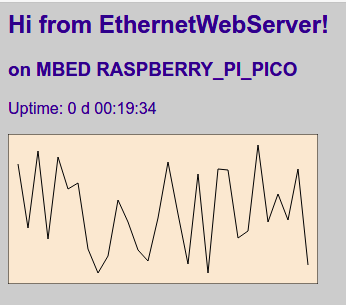
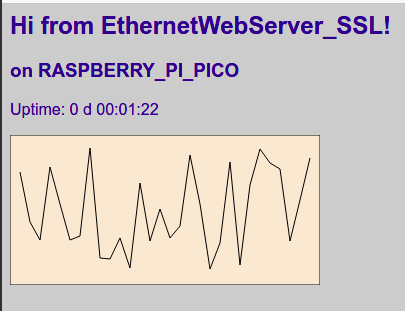
v1.5.0 to add support to RP2040-based boards
### Major Releases v1.5.0

1. Add support to RP2040-based boards, such as **RASPBERRY_PI_PICO, ADAFRUIT_FEATHER_RP2040 and GENERIC_RP2040**, using [**Earle Philhower's arduino-pico core** v1.3.1+](https://github.com/earlephilhower/arduino-pico).
2. Update examples with new features

Changed region(s): [[0.0, 0.0, 1.0, 1.0], [0.4046, 0.8262, 0.4335, 0.8557]]

diff --git a/README.md b/README.md
@@ -16,6 +16,7 @@
   * [Currently supported Boards](#currently-supported-boards)
   * [Currently supported Ethernet shields/modules](#currently-supported-ethernet-shieldsmodules)
 * [Changelog](#changelog)
+  * [Major Releases v1.5.0](#major-releases-v150)
   * [Major Releases v1.4.0](#major-releases-v140)
   * [Releases v1.3.1](#releases-v131)
   * [Releases v1.3.0](#releases-v130)
@@ -137,6 +138,8 @@
   * [7. MQTTS_ThingStream on MBED RASPBERRY_PI_PICO with W5x00 using Ethernet Library](#7-mqtts_thingstream-on-mbed-raspberry_pi_pico-with-w5x00-using-ethernet-library)
   * [8. MQTTClient_SSL on MBED RASPBERRY_PI_PICO with W5x00 using Ethernet Library](#8-mqttclient_ssl-on-mbed-raspberry_pi_pico-with-w5x00-using-ethernet-library)
   * [9. AdvancedWebServer on MBED RASPBERRY_PI_PICO with W5x00 using Ethernet3 Library](#9-advancedwebserver-on-mbed-raspberry_pi_pico-with-w5x00-using-ethernet3-library)
+  * [10. MQTTClient_SSL on RASPBERRY_PI_PICO with W5x00 using Ethernet Library](#10-mqttclient_ssl-on-raspberry_pi_pico-with-w5x00-using-ethernet-library)
+  * [11. AdvancedWebServer on RASPBERRY_PI_PICO with W5x00 using Ethernet Library](#11-advancedwebserver-on-raspberry_pi_pico-with-w5x00-using-ethernet-library)
 * [Debug](#debug)
 * [Troubleshooting](#troubleshooting)
 * [Releases](#releases)
@@ -157,7 +160,7 @@
 
 This [EthernetWebServer_SSL library](https://github.com/khoih-prog/EthernetWebServer_SSL) is a simple yet complete TLS/SSL WebClient and non-TLS/SSL WebServer library for **Teensy, SAM DUE, Arduino SAMD21, Adafruit SAMD21/SAMD51, Adafruit nRF52, ESP32/ESP8266, STM32, etc.** boards using Ethernet shields. The functions are similar and compatible to those of [`ESP32 WebServer`](https://github.com/espressif/arduino-esp32/tree/master/libraries/WebServer) and [`ESP8266WebServer`](https://github.com/esp8266/Arduino/tree/master/libraries/ESP8266WebServer) libraries to make life much easier to port sketches from ESP8266/ESP32.
 
-The **RP2040-based boards, such as RASPBERRY_PI_PICO**, are currently supported using [**Arduino-mbed RP2040** core](https://github.com/arduino/ArduinoCore-mbed). The support to [Earle Philhower's arduino-pico core](https://github.com/earlephilhower/arduino-pico) will be added in the future.
+The **RP2040-based boards, such as RASPBERRY_PI_PICO**, are currently supported using [**Arduino-mbed RP2040** core](https://github.com/arduino/ArduinoCore-mbed) or [**Earle Philhower's arduino-pico** core v1.3.1+](https://github.com/earlephilhower/arduino-pico).
 
 This [EthernetWebServer_SSL library](https://github.com/khoih-prog/EthernetWebServer_SSL) adds [TLS 1.2](https://www.websecurity.digicert.com/security-topics/what-is-ssl-tls-https) functionality to EthernetClient, using BearSSL as an underlying TLS engine.
 
@@ -201,7 +204,7 @@ This [**EthernetWebServer_SSL** library](https://github.com/khoih-prog/EthernetW
  6. **AVR Mega1280, 2560, ADK.**. SSL WebClient not supported yet. Check [Trivial sketch won't compile using Arduino 1.8.13](https://github.com/mike-matera/ArduinoSTL/issues/56)
  7. ESP32
  8. ESP8266. SSL WebClient not supported yet. Check [HTTPS GET request - ESP8266 - ENC28j60](https://github.com/OPEnSLab-OSU/SSLClient/issues/5)
- 9. RP2040-based boards, such as **RASPBERRY_PI_PICO, ADAFRUIT_FEATHER_RP2040 and GENERIC_RP2040**, using [**Arduino-mbed RP2040** core](https://github.com/arduino/ArduinoCore-mbed). 
+ 9. RP2040-based boards, such as **RASPBERRY_PI_PICO, ADAFRUIT_FEATHER_RP2040 and GENERIC_RP2040**, using [**Arduino-mbed RP2040** core](https://github.com/arduino/ArduinoCore-mbed) or [**Earle Philhower's arduino-pico** core v1.3.1+](https://github.com/earlephilhower/arduino-pico).
  
   
 #### Currently supported Ethernet shields/modules
@@ -214,6 +217,11 @@ This [**EthernetWebServer_SSL** library](https://github.com/khoih-prog/EthernetW
 ---
 
 # Changelog
+
+### Major Releases v1.5.0
+
+1. Add support to RP2040-based boards, such as **RASPBERRY_PI_PICO, ADAFRUIT_FEATHER_RP2040 and GENERIC_RP2040**, using [**Earle Philhower's arduino-pico core** v1.3.1+](https://github.com/earlephilhower/arduino-pico).
+2. Update examples with new features
 
 ### Major Releases v1.4.0
 
@@ -269,15 +277,16 @@ This [**EthernetWebServer_SSL** library](https://github.com/khoih-prog/EthernetW
  9. [`ESP8266 Core 2.7.4+`](https://github.com/esp8266/Arduino) for ESP8266-based boards. [![Latest release](https://img.shields.io/github/release/esp8266/Arduino.svg)](https://github.com/esp8266/Arduino/releases/latest/). To use ESP8266 core 2.7.1+ for LittleFS. 
 10. [`ESP32 Core 1.0.6+`](https://github.com/espressif/arduino-esp32) for ESP32-based boards. [![Latest release](https://img.shields.io/github/release/espressif/arduino-esp32.svg)](https://github.com/espressif/arduino-esp32/releases/latest/)
 11. [`Arduino mbed_rp2040 core 2.0.0+`](https://github.com/arduino/ArduinoCore-mbed) for Arduino (Use Arduino Board Manager) RP2040-based boards, such as RASPBERRY_PI_PICO. [![GitHub release](https://img.shields.io/github/release/arduino/ArduinoCore-mbed.svg)](https://github.com/arduino/ArduinoCore-mbed/releases/latest)
-12. [`Functional-VLPP library v1.0.2+`](https://github.com/khoih-prog/functional-vlpp) to use server's lambda function. To install. check [![arduino-library-badge](https://www.ardu-badge.com/badge/Functional-Vlpp.svg?)](https://www.ardu-badge.com/Functional-Vlpp)
-13. Depending on which Ethernet card you're using:
+12. [`Earle Philhower's arduino-pico core v1.3.1+`](https://github.com/earlephilhower/arduino-pico) for RP2040-based boards such as **RASPBERRY_PI_PICO, ADAFRUIT_FEATHER_RP2040 and GENERIC_RP2040**, etc. [![GitHub release](https://img.shields.io/github/release/earlephilhower/arduino-pico.svg)](https://github.com/earlephilhower/arduino-pico/releases/latest)
+13. [`Functional-VLPP library v1.0.2+`](https://github.com/khoih-prog/functional-vlpp) to use server's lambda function. To install. check [![arduino-library-badge](https://www.ardu-badge.com/badge/Functional-Vlpp.svg?)](https://www.ardu-badge.com/Functional-Vlpp)
+14. Depending on which Ethernet card you're using:
    - [`Ethernet library v2.0.0+`](https://github.com/arduino-libraries/Ethernet) for W5100, W5200 and W5500.  [![GitHub release](https://img.shields.io/github/release/arduino-libraries/Ethernet.svg)](https://github.com/arduino-libraries/Ethernet/releases/latest)
    - [`EthernetLarge library v2.0.0+`](https://github.com/OPEnSLab-OSU/EthernetLarge) for W5100, W5200 and W5500.
    - [`Ethernet2 library v1.0.4+`](https://github.com/khoih-prog/Ethernet2) for W5500. [![GitHub release](https://img.shields.io/github/release/adafruit/Ethernet2.svg)](https://github.com/adafruit/Ethernet2/releases/latest)
    - [`Ethernet3 library v1.5.5+`](https://github.com/sstaub/Ethernet3) for W5500/WIZ550io/WIZ850io/USR-ES1 with Wiznet W5500 chip. [![GitHub release](https://img.shields.io/github/release/sstaub/Ethernet3.svg)](https://github.com/sstaub/Ethernet3/releases/latest)
    - [`EthernetENC library v2.0.1+`](https://github.com/jandrassy/EthernetENC) for ENC28J60. [![GitHub release](https://img.shields.io/github/release/jandrassy/EthernetENC.svg)](https://github.com/jandrassy/EthernetENC/releases/latest). **New and Better**
    - [`UIPEthernet library v2.0.9+`](https://github.com/UIPEthernet/UIPEthernet) for ENC28J60. [![GitHub release](https://img.shields.io/github/release/UIPEthernet/UIPEthernet.svg)](https://github.com/UIPEthernet/UIPEthernet/releases/latest)
-   - [`NativeEthernet Library version stable111+`](https://github.com/vjmuzik/NativeEthernet) for Teensy 4.1 built-in NativeEthernet.
+   - [`NativeEthernet Library version stable111+`](https://github.com/vjmuzik/NativeEthernet) for Teensy 4.1 built-in NativeEthernet. **New**
 
 ---
 
@@ -469,9 +478,9 @@ theses files must be copied into the corresponding directory:
 
 #### 8. For RP2040-based boards using [Earle Philhower arduino-pico core](https://github.com/earlephilhower/arduino-pico)
  
- ***To be able to automatically detect and display BOARD_NAME on Seeeduino SAMD (RASPBERRY_PI_PICO, ADAFRUIT_FEATHER_RP2040, GENERIC_RP2040, etc) boards***, you have to copy the file [RP2040 platform.txt](Packages_Patches/rp2040/hardware/rp2040/1.2.1) into rp2040 directory (~/.arduino15/packages/rp2040/hardware/rp2040/1.2.1). 
+ ***To be able to automatically detect and display BOARD_NAME on Seeeduino SAMD (RASPBERRY_PI_PICO, ADAFRUIT_FEATHER_RP2040, GENERIC_RP2040, etc) boards***, you have to copy the file [RP2040 platform.txt](Packages_Patches/rp2040/hardware/rp2040/1.3.1) into rp2040 directory (~/.arduino15/packages/rp2040/hardware/rp2040/1.3.1). 
 
-Supposing the rp2040 core version is 1.2.1. This file must be copied into the directory:
+Supposing the rp2040 core version is 1.3.1. This file must be copied into the directory:
 
 - `~/.arduino15/packages/rp2040/hardware/rp2040/1.2.1/platform.txt`
 
@@ -2102,7 +2111,7 @@ The following are debug terminal output and screen shot when running example [Ad
 
 ```
 Starting AdvancedWebServer on NRF52840_FEATHER with ENC28J60 using EthernetENC Library
-EthernetWebServer_SSL v1.4.0
+EthernetWebServer_SSL v1.5.0
 [ETHERNET_WEBSERVER] =========================
 [ETHERNET_WEBSERVER] Default SPI pinout:
 [ETHERNET_WEBSERVER] MOSI: 25
@@ -2280,7 +2289,7 @@ The terminal output of **SAM DUE with W5x00 using EthernetLarge Library** runnin
 
 ```
 Start WebClientMulti_SSL on SAM DUE with W5x00 using EthernetLarge Library
-EthernetWebServer_SSL v1.4.0
+EthernetWebServer_SSL v1.5.0
 [ETHERNET_WEBSERVER] =========== USE_ETHERNET_LARGE ===========
 [ETHERNET_WEBSERVER] Default SPI pinout:
 [ETHERNET_WEBSERVER] MOSI: 75
@@ -2419,7 +2428,7 @@ The terminal output of **SEEED_XIAO_M0 with W5x00 using Ethernet3 Library** runn
 
 ```
 Start WebClient_SSL on SEEED_XIAO_M0 with W5x00 using Ethernet3 Library
-EthernetWebServer_SSL v1.4.0
+EthernetWebServer_SSL v1.5.0
 [ETHERNET_WEBSERVER] =========== USE_ETHERNET3 ===========
 [ETHERNET_WEBSERVER] Default SPI pinout:
 [ETHERNET_WEBSERVER] MOSI: 10
@@ -2525,7 +2534,7 @@ Received 3405 bytes in 0.2072 s, rate = 16.43 kbytes/second
 
 ```
 Start MQTTClient_SSL_Complex on SAM DUE with W5x00 using EthernetLarge Library
-EthernetWebServer_SSL v1.4.0
+EthernetWebServer_SSL v1.5.0
 [ETHERNET_WEBSERVER] =========== USE_ETHERNET_LARGE ===========
 [ETHERNET_WEBSERVER] Default SPI pinout:
 [ETHERNET_WEBSERVER] MOSI: 75
@@ -2566,7 +2575,7 @@ The terminal output of **SEEED_XIAO_M0 with W5x00 using Ethernet3 Library** runn
 
 ```
 Start MQTTS_ThingStream on SEEED_XIAO_M0 with W5x00 using Ethernet3 Library
-EthernetWebServer_SSL v1.4.0
+EthernetWebServer_SSL v1.5.0
 [ETHERNET_WEBSERVER] Board : SEEED_XIAO_M0 , setCsPin: 1
 [ETHERNET_WEBSERVER] Default SPI pinout:
 [ETHERNET_WEBSERVER] MOSI: 10
@@ -2600,7 +2609,7 @@ The terminal output of **MBED RASPBERRY_PI_PICO with W5x00 using Ethernet Librar
 
 ```
 Start MQTTS_ThingStream on MBED RASPBERRY_PI_PICO with W5x00 using Ethernet Library
-EthernetWebServer_SSL v1.4.0
+EthernetWebServer_SSL v1.5.0
 [ETHERNET_WEBSERVER] =========== USE_ETHERNET ===========
 [ETHERNET_WEBSERVER] Default SPI pinout:
 [ETHERNET_WEBSERVER] MOSI: 3
@@ -2631,7 +2640,7 @@ The terminal output of **MBED RASPBERRY_PI_PICO with W5x00 using Ethernet Librar
 
 ```
 Start MQTTClient_SSL on MBED RASPBERRY_PI_PICO with W5x00 using Ethernet Library
-EthernetWebServer_SSL v1.4.0
+EthernetWebServer_SSL v1.5.0
 [ETHERNET_WEBSERVER] =========== USE_ETHERNET ===========
 [ETHERNET_WEBSERVER] Default SPI pinout:
 [ETHERNET_WEBSERVER] MOSI: 3
@@ -2671,13 +2680,13 @@ Message Send : MQTT_Pub => Hello from MQTTClient_SSL on MBED RASPBERRY_PI_PICO
 The following are debug terminal output and screen shot when running example [AdvancedWebServer](examples/AdvancedWebServer) on MBED RASPBERRY_PI_PICO with W5x00 using Ethernet3 Library
 
 <p align="center">
-    <img src="https://github.com/khoih-prog/EthernetWebServer_SSL/blob/main/pics/AdvancedWebServer_RPi_Pico.png">
+    <img src="https://github.com/khoih-prog/EthernetWebServer_SSL/blob/main/pics/AdvancedWebServer_Mbed_RPi_Pico.png">
 </p>
 
 
 ```
 Starting AdvancedWebServer on MBED RASPBERRY_PI_PICO with W5x00 using Ethernet3 Library
-EthernetWebServer_SSL v1.4.0
+EthernetWebServer_SSL v1.5.0
 [EWS] =========== USE_ETHERNET3 ===========
 [EWS] Default SPI pinout:
 [EWS] MOSI: 3
@@ -2697,6 +2706,75 @@ SPI_CS:5
 Using mac index = 12
 Connected! IP address: 192.168.2.95
 HTTP EthernetWebServer is @ IP : 192.168.2.95
+```
+
+---
+
+#### 10. MQTTClient_SSL on RASPBERRY_PI_PICO with W5x00 using Ethernet Library
+
+The terminal output of **RASPBERRY_PI_PICO with W5x00 using Ethernet Library** running [MQTTClient_SSL example](examples/MQTTClient_SSL)
+
+```
+Start MQTTClient_SSL on RASPBERRY_PI_PICO with W5x00 using Ethernet Library
+EthernetWebServer_SSL v1.5.0
+[ETHERNET_WEBSERVER] =========== USE_ETHERNET ===========
+[ETHERNET_WEBSERVER] Default SPI pinout:
+[ETHERNET_WEBSERVER] MOSI: 19
+[ETHERNET_WEBSERVER] MISO: 16
+[ETHERNET_WEBSERVER] SCK: 18
+[ETHERNET_WEBSERVER] SS: 17
+[ETHERNET_WEBSERVER] =========================
+[ETHERNET_WEBSERVER] RPIPICO setCsPin: 17
+=========================
+Currently Used SPI pinout:
+MOSI:19
+MISO:16
+SCK:18
+SS:17
+=========================
+Using mac index = 1
+Connected! IP address: 192.168.2.105
+Attempting MQTTS connection to broker.emqx.io...connected
+Message Send : MQTT_Pub => Hello from MQTTClient_SSL on RASPBERRY_PI_PICO
+Message arrived [MQTT_Pub] Hello from MQTTClient_SSL on RASPBERRY_PI_PICO
+Message Send : MQTT_Pub => Hello from MQTTClient_SSL on RASPBERRY_PI_PICO
+Message arrived [MQTT_Pub] Hello from MQTTClient_SSL on RASPBERRY_PI_PICO
+```
+
+---
+
+
+#### 11. AdvancedWebServer on RASPBERRY_PI_PICO with W5x00 using Ethernet Library
+
+The following are debug terminal output and screen shot when running example [AdvancedWebServer](examples/AdvancedWebServer) on RASPBERRY_PI_PICO with W5x00 using Ethernet Library
+
+<p align="center">
+    <img src="https://github.com/khoih-prog/EthernetWebServer_SSL/blob/main/pics/AdvancedWebServer_RPi_Pico.png">
+</p>
+
+
+```
+Starting AdvancedWebServer on RASPBERRY_PI_PICO with W5x00 using Ethernet Library
+EthernetWebServer_SSL v1.5.0
+[ETHERNET_WEBSERVER] =========== USE_ETHERNET ===========
+[ETHERNET_WEBSERVER] Default SPI pinout:
+[ETHERNET_WEBSERVER] MOSI: 19
+[ETHERNET_WEBSERVER] MISO: 16
+[ETHERNET_WEBSERVER] SCK: 18
+[ETHERNET_WEBSERVER] SS: 17
+[ETHERNET_WEBSERVER] =========================
+[ETHERNET_WEBSERVER] RPIPICO setCsPin: 17
+=========================
+Currently Used SPI pinout:
+MOSI:19
+MISO:16
+SCK:18
+SS:17
+=========================
+Using mac index = 8
+Connected! IP address: 192.168.2.99
+HTTP EthernetWebServer is @ IP : 192.168.2.99
+..
 ```
 
 ---
@@ -2725,6 +2803,11 @@ If you get compilation errors, more often than not, you may need to install a ne
 ---
 
 ## Releases
+
+### Major Releases v1.5.0
+
+1. Add support to RP2040-based boards, such as **RASPBERRY_PI_PICO, ADAFRUIT_FEATHER_RP2040 and GENERIC_RP2040**, using [**Earle Philhower's arduino-pico core** v1.3.1+](https://github.com/earlephilhower/arduino-pico).
+2. Update examples with new features
 
 ### Major Releases v1.4.0
 
@@ -2784,7 +2867,7 @@ This [**EthernetWebServer_SSL** library](https://github.com/khoih-prog/EthernetW
  6. **AVR Mega1280, 2560, ADK.**. SSL WebClient not supported yet. Check [Trivial sketch won't compile using Arduino 1.8.13](https://github.com/mike-matera/ArduinoSTL/issues/56)
  7. ESP32
  8. ESP8266. SSL WebClient not supported yet. Check [HTTPS GET request - ESP8266 - ENC28j60](https://github.com/OPEnSLab-OSU/SSLClient/issues/5)
- 9. RP2040-based boards, such as **RASPBERRY_PI_PICO, ADAFRUIT_FEATHER_RP2040 and GENERIC_RP2040**, using [**Arduino-mbed RP2040** core](https://github.com/arduino/ArduinoCore-mbed). 
+ 9. RP2040-based boards, such as **RASPBERRY_PI_PICO, ADAFRUIT_FEATHER_RP2040 and GENERIC_RP2040**, using [**Arduino-mbed RP2040** core](https://github.com/arduino/ArduinoCore-mbed) or [**Earle Philhower's arduino-pico** core v1.3.1+](https://github.com/earlephilhower/arduino-pico).
  
  
 #### Supporting Ethernet shields/modules:
@@ -2818,7 +2901,7 @@ Submit issues to: [EthernetWebServer_SSL issues](https://github.com/khoih-prog/E
 3. Support more types of boards using Ethernet shields.
 4. Support more non-compatible Ethernet Libraries such as Ethernet_Shield_W5200, EtherCard, EtherSia
 5. Add mDNS features.
-6. Add support to RP2040-based boards such as RASPBERRY_PI_PICO, using [Earle Philhower's arduino-pico core](https://github.com/earlephilhower/arduino-pico)
+
 
 ### DONE
 
@@ -2837,6 +2920,7 @@ Submit issues to: [EthernetWebServer_SSL issues](https://github.com/khoih-prog/E
 13. Add **High-level HTTP (GET, POST, PUT, PATCH, DELETE) and WebSocket Client**
 14. Add support to [NativeEthernet Library](https://github.com/vjmuzik/NativeEthernet) for Teensy 4.1
 15. Add support to RP2040-based boards such as RASPBERRY_PI_PICO, using [**Arduino-mbed RP2040** core](https://github.com/arduino/ArduinoCore-mbed)
+16. Add support to RP2040-based boards such as RASPBERRY_PI_PICO, using [Earle Philhower's arduino-pico core](https://github.com/earlephilhower/arduino-pico)
 
 ---
 ---
